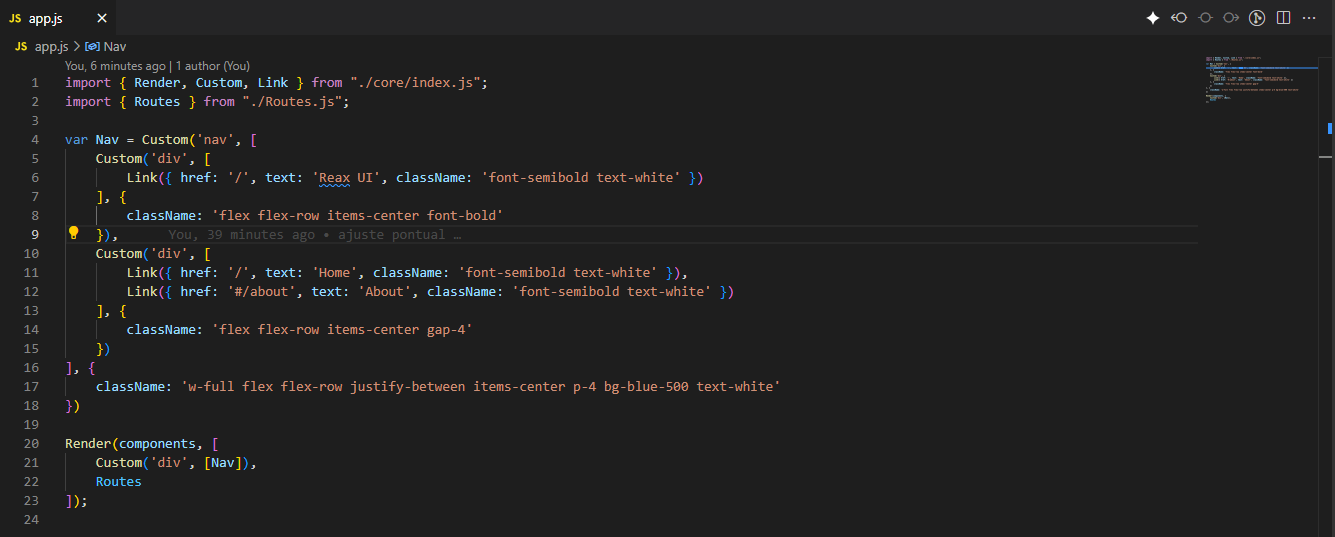
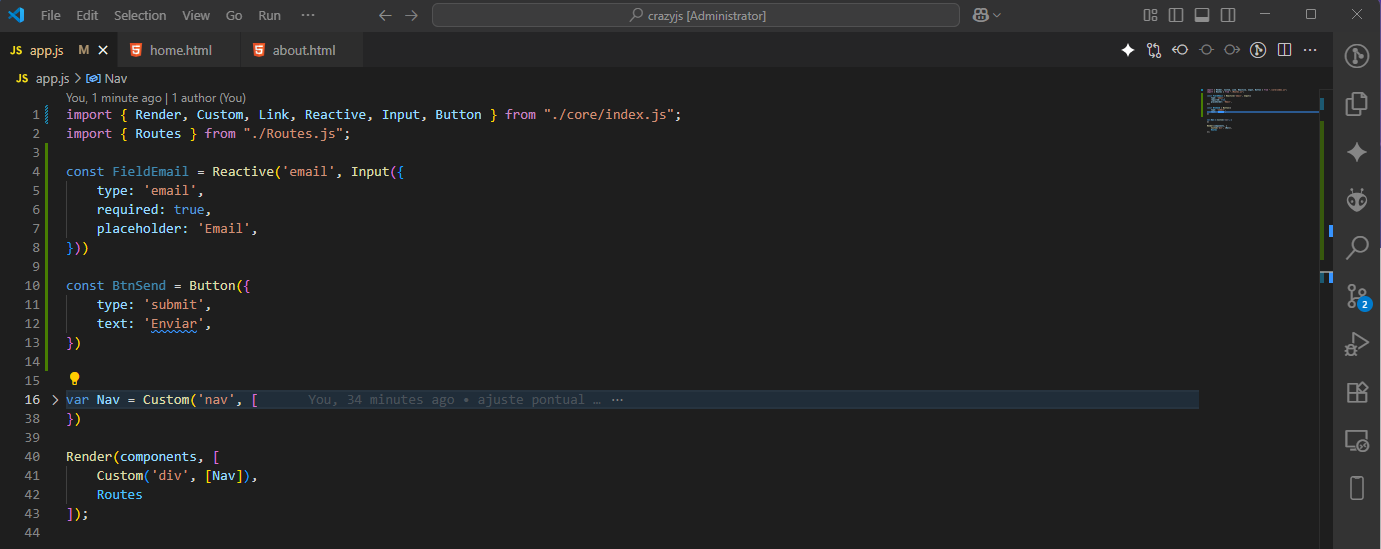
adiciona o ícone da bandeira do brasil

diff --git a/app.js b/app.js
@@ -1,23 +1,39 @@
-import { Render, Custom, Link } from "./core/index.js";
+import { Render, Custom, Link, Reactive, Input, Button, Image } from "./core/index.js";
 import { Routes } from "./Routes.js";
+
+const FieldEmail = Reactive('email', Input({
+    type: 'email',
+    required: true,
+    placeholder: 'Email',
+}))
+
+const BtnSend = Button({
+    type: 'submit',
+    text: 'Enviar',
+})
+
 
 var Nav = Custom('nav', [
     Custom('div', [
-        Link({ href: '/', text: 'Reax UI', className: 'font-semibold text-white' })
-    ], {
-        className: 'flex flex-row items-center font-bold'
-    }),
-    Custom('div', [
-        Custom('span', ['v0.0.1 Alpha'], { className: 'font-light' })
-    ], {
-        className: 'flex flex-row items-center font-bold'
-    }),
-    Custom('div', [
-        Link({ href: '/', text: 'Home', className: 'font-semibold text-white' }),
-        Link({ href: '#/about', text: 'About', className: 'font-semibold text-white' })
-    ], {
-        className: 'flex flex-row items-center gap-4'
-    })
+        Custom('div', [
+            Image({ src: '../assets/brasil.png', className: 'w-10 h-10 shadow-md' }),
+            Link({ href: '/', text: 'Reax UI', className: 'font-semibold text-white' })
+        ], {
+            className: 'flex flex-row items-center font-bold flex flex-row gap-4'
+        }),
+        Custom('div', [
+            Custom('span', ['v0.0.1 Alpha'], { className: 'font-light' })
+        ], {
+            className: 'flex flex-row items-center font-bold'
+        }),
+        Custom('div', [
+            Link({ href: '/', text: 'Home', className: 'font-semibold text-white' }),
+            Link({ href: '#/about', text: 'About', className: 'font-semibold text-white' })
+        ], {
+            className: 'flex flex-row items-center gap-4'
+        })
+    ], { className: 'w-8/12 mx-auto flex flex-row justify-between items-center' })
+
 ], {
     className: 'w-full flex flex-row justify-between items-center p-4 bg-blue-500 text-white'
 })

diff --git a/pages/about.html b/pages/about.html
@@ -1,11 +1,13 @@
-<div class="bg-blue-400 flex flex-col justify-center items-center"
+<div class="bg-blue-400 flex flex-col justify-center items-center relative"
     style="background-image: url(../assets//background.png); background-position: top center; background-repeat: no-repeat; background-size: cover;">
     <div class="w-10/12 mx-auto h-100 flex flex-col justify-center items-center ">
-        <h1 class="text-3xl font-bold text-white text-center">The Future of Reactive UI</h1>
-        <p class="mt-4 text-center">
-            Fast, Expansive and Reactive
+        <h1 class="text-5xl font-bold text-white text-center">The Past merge with the Future</h1>
+        <p class="text-3xl mt-4 text-center text-gray-400">
+            <span class="font-bold text-cyan-400">Fast</span>, <span class="font-bold text-cyan-400">Expansive</span>
+            and <span class="font-bold text-cyan-400">Reactive</span> <span class="underline">when you need</span>!
         </p>
     </div>
+    <img src="../assets/code.png" class="absolute mt-150 w-250 hidden md:block" alt="code" />
 </div>
 <div class="p-4">
 

diff --git a/core/index.js b/core/index.js
@@ -8,6 +8,8 @@ import { Custom } from "./components/Custom.js";
 import { MaskedView } from "./components/MaskedView.js";
 import { Router } from "./components/Router.js";
 import { Skeleton } from "./components/Skeleton.js";
+import { Image } from "./components/Image.js";
+
 window.components = [];
 
 export {
@@ -21,5 +23,6 @@ export {
     Custom,
     Reactive,
     Router,
-    Skeleton
+    Skeleton,
+    Image
 }

diff --git a/core/components/Image.js b/core/components/Image.js
@@ -1,0 +1,16 @@
+import { ApplyStyleOrClassList } from "../fn/ApplyStyleOrClassList.js";
+
+export const Image = ({
+    id,
+    src,
+    className,
+    style,
+} = {}) => {
+    const element = document.createElement('img');
+    if (id) element.id = id;
+    if (src) element.src = String(src);
+
+    ApplyStyleOrClassList(element, className, style);
+
+    return element;
+};
